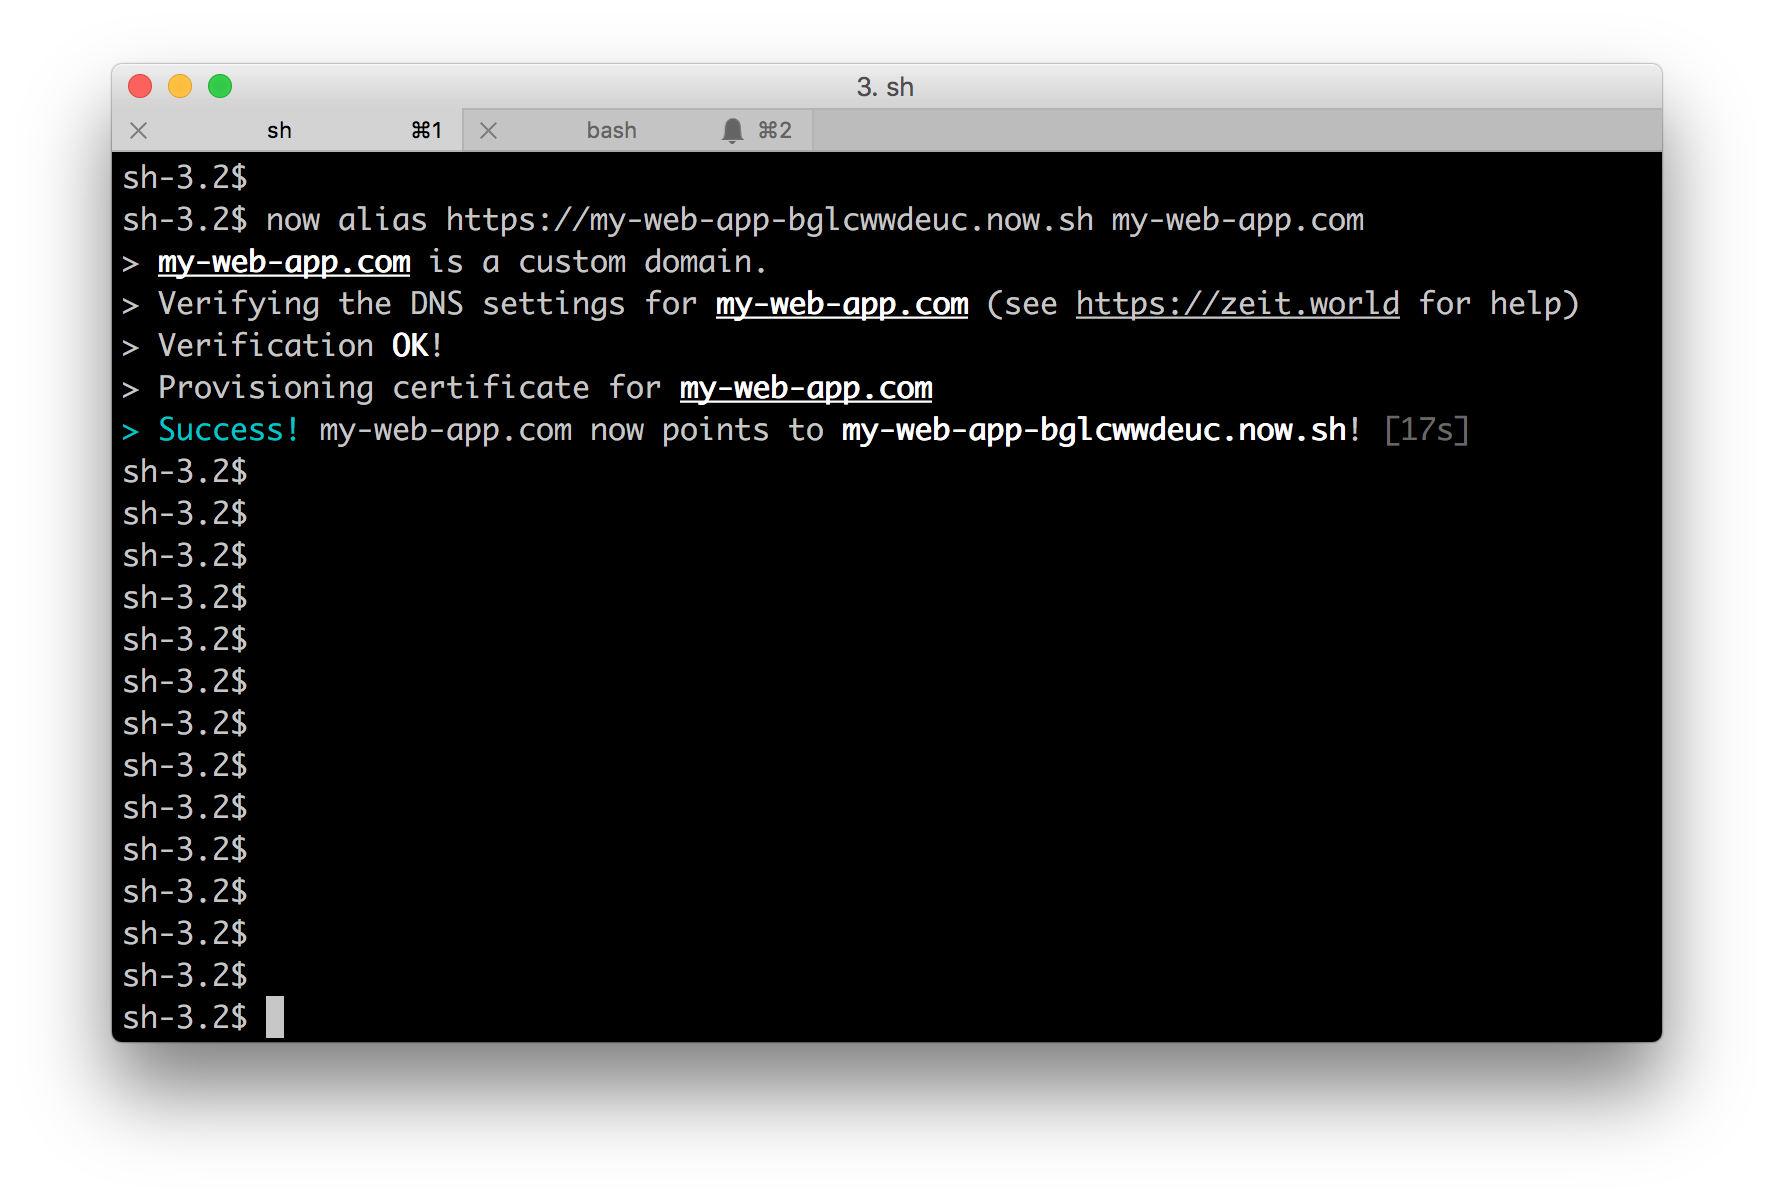
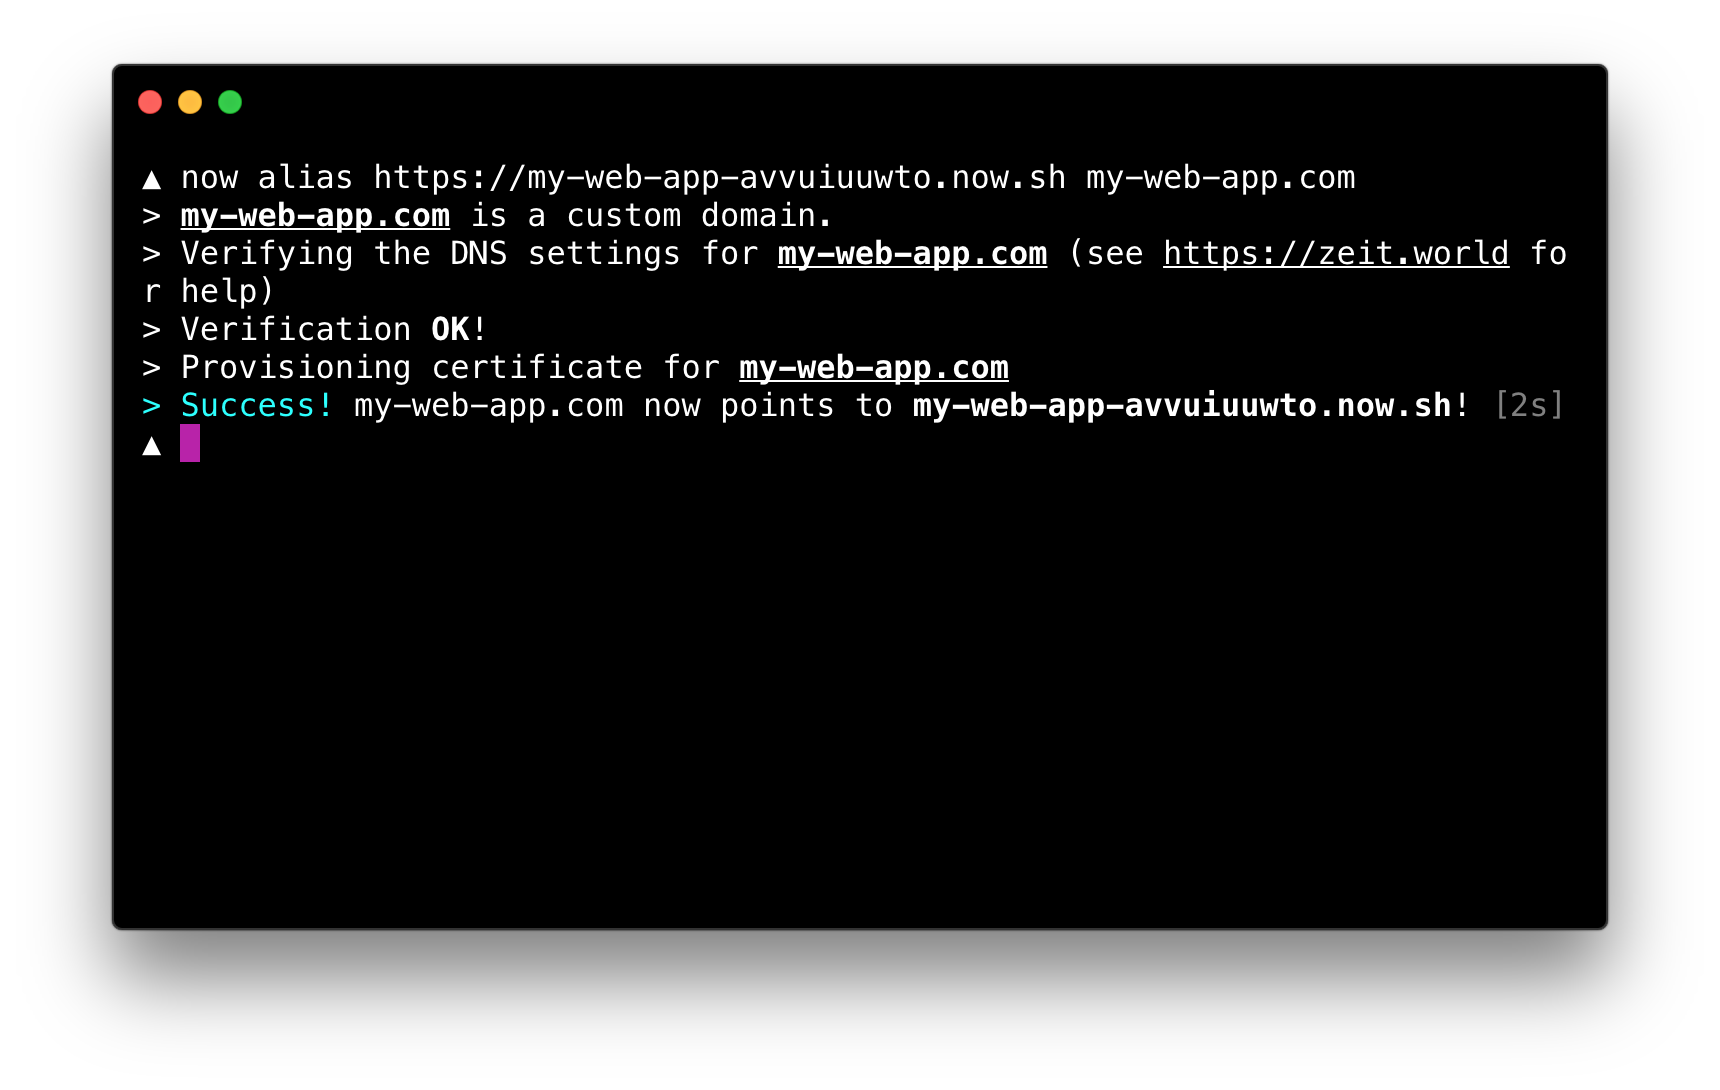
Change screenshots in five-minute-guide-to-now

Changed region(s): [[0.0616, 0.0312, 0.9552, 0.8734]]

diff --git a/pages/docs/getting-started/five-minute-guide-to-now.js b/pages/docs/getting-started/five-minute-guide-to-now.js
@@ -56,7 +56,7 @@ ${<TerminalInput>now</TerminalInput>}
 ${<Image
   src={`${ASSETS_URL}/docs/five-minute-guide-to-now/deploy.png`}
   width={650}
-  height={448}
+  height={255}
   caption="Getting a unique URL after the deployment."
 />}
 
@@ -64,12 +64,12 @@ This is a URL for the current deployment of the app. You can access this version
 
 ## Domain Name
 
-Now you have a unique URL(<https:my-web-app-bglcwwdeuc.now.sh>) for your app. But you probably want a nicer-sounding URL before directing your users there. The next step is to map the "now.sh" URL to a domain name that you prefer.
+Now you have a unique URL(<https://my-web-app-avvuiuuwto.now.sh>) for your app. But you probably want a nicer-sounding URL before directing your users there. The next step is to map the "now.sh" URL to a domain name that you prefer.
 
 Let's assume the domain name is \`my-web-app.com\`, and you haven't bought it yet. <br/>
 To map this domain name to the app's unique URL, run this command:
 
-${<TerminalInput>now alias my-web-app-bglcwwdeuc.now.sh my-web-app.com</TerminalInput>}
+${<TerminalInput>now alias https://my-web-app-avvuiuuwto.now.sh my-web-app.com</TerminalInput>}
 
 Since you haven't bought the domain name yet, you will be asked to enter your credit card information to buy it.
 You can do that by running this command:
@@ -82,7 +82,7 @@ ${<TerminalInput>now upgrade</TerminalInput>}
 
 Now, run the domain mapping command again and follow these instructions:
 
-${<TerminalInput>now alias my-web-app-bglcwwdeuc.now.sh my-web-app.com</TerminalInput>}
+${<TerminalInput>now alias https://my-web-app-avvuiuuwto.now.sh my-web-app.com</TerminalInput>}
 
 Once you've done that, you'll be able to access your app using <https://my-web-app.com>.
 It is automatically configured with a [Let's Encrypt](https://letsencrypt.org/) SSL certificate and served with HTTPS.
@@ -90,7 +90,7 @@ It is automatically configured with a [Let's Encrypt](https://letsencrypt.org/) 
 ${<Image
   src={`${ASSETS_URL}/docs/five-minute-guide-to-now/domain-setup.png`}
   width={650}
-  height={448}
+  height={412}
   caption="After mapping a domain name to a deployment."
 />}
 
